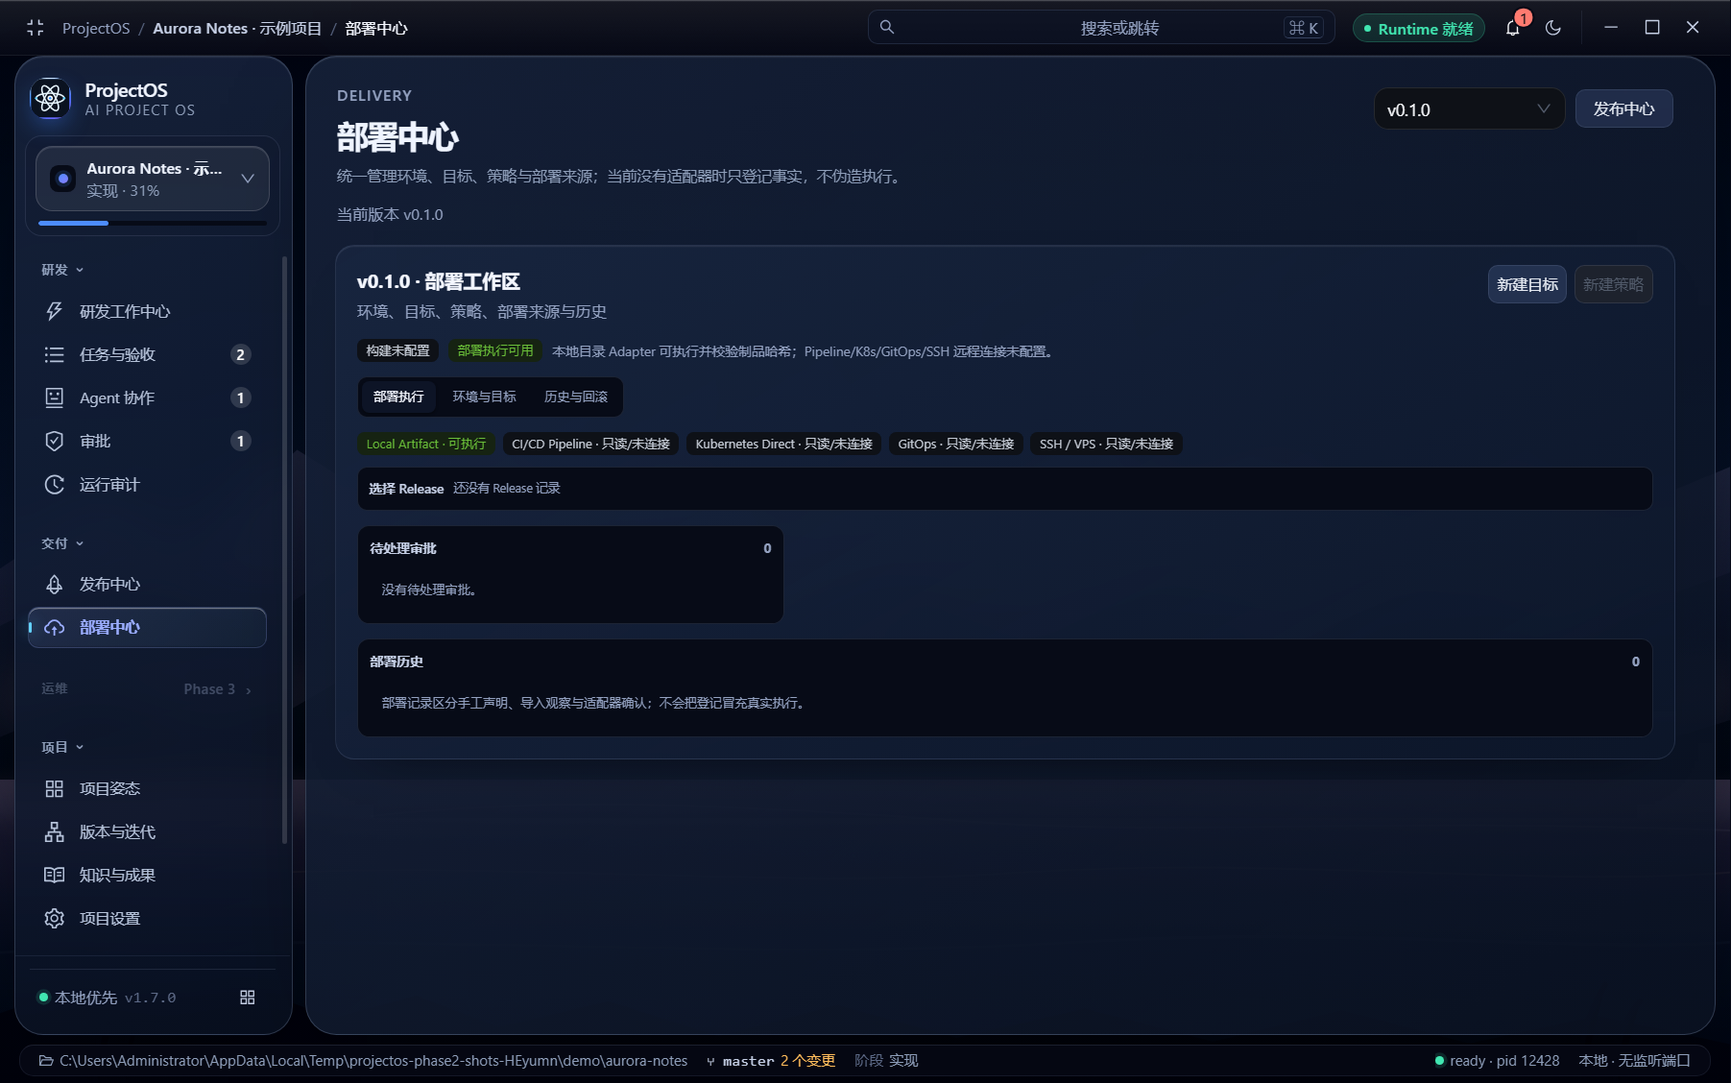
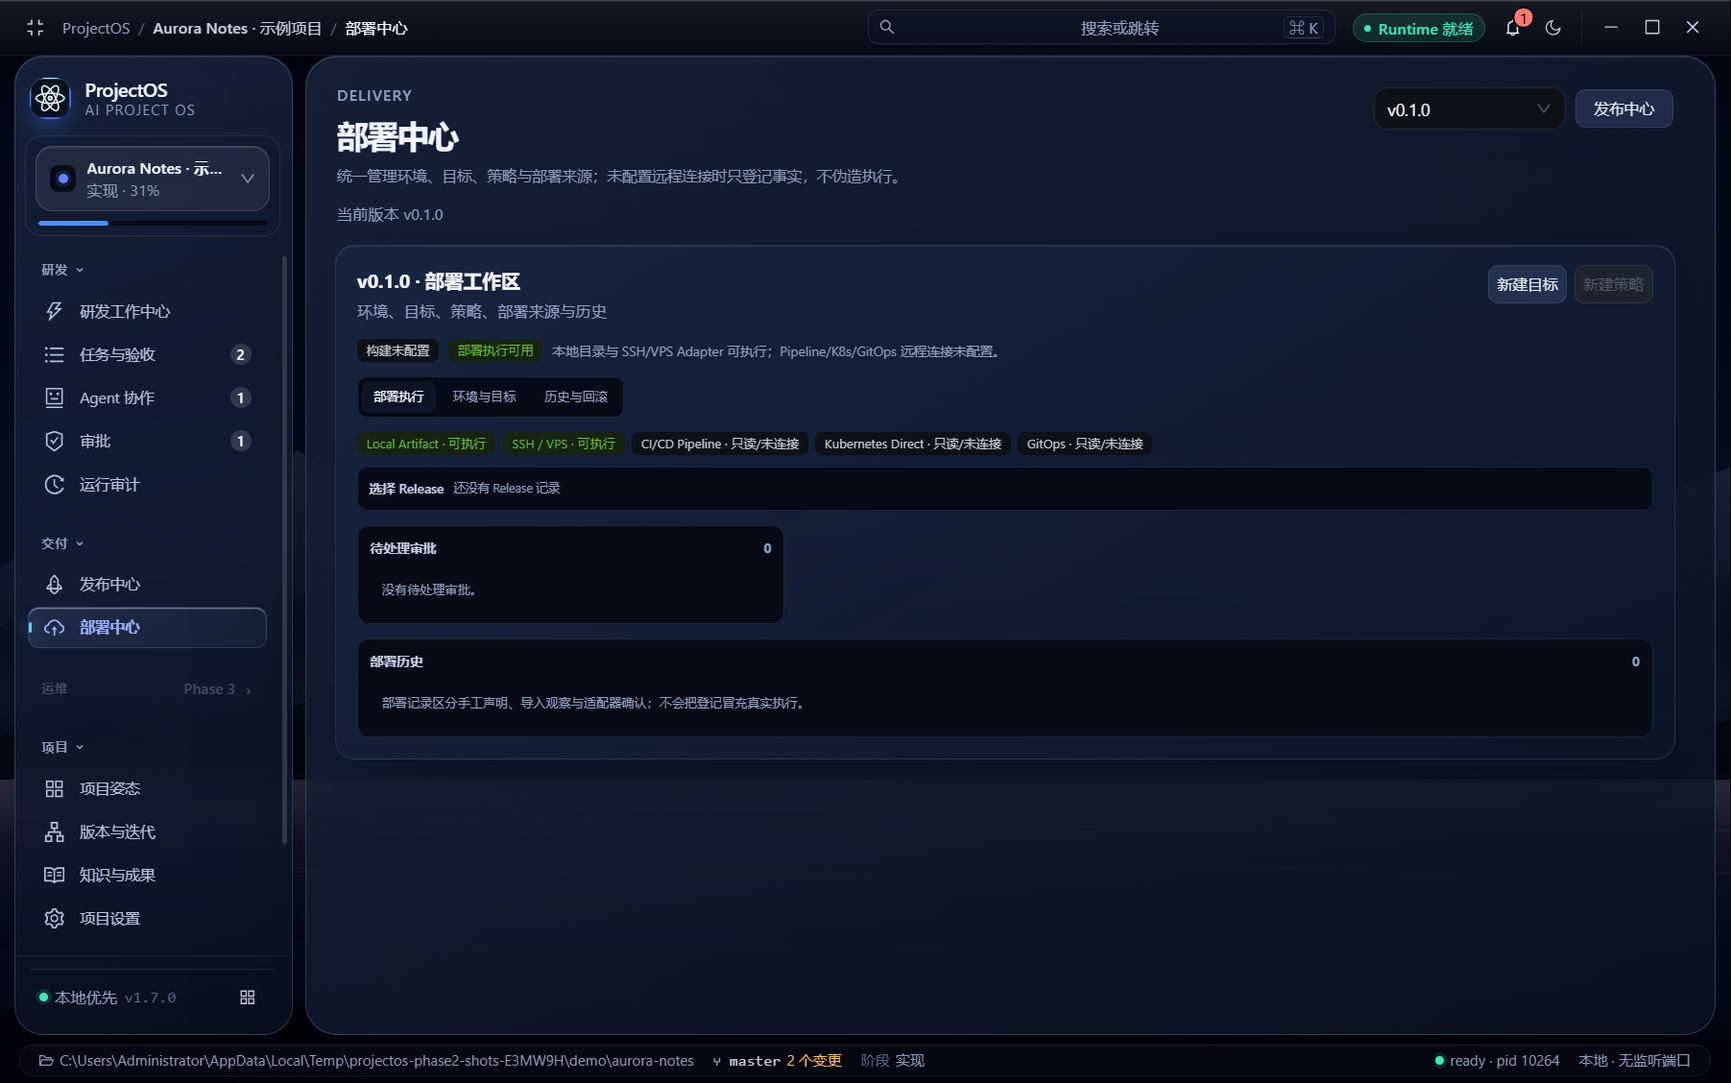
feat(phase2.2): add controlled SSH/VPS adapter and real delivery validation

diff --git a/apps/runtime/src/delivery-adapters.ts b/apps/runtime/src/delivery-adapters.ts
@@ -1,6 +1,8 @@
 import { createHash } from 'node:crypto'
+import { execFile } from 'node:child_process'
+import { promisify } from 'node:util'
 import { existsSync, mkdirSync, readFileSync, writeFileSync } from 'node:fs'
-import { join } from 'node:path'
+import { basename, join } from 'node:path'
 
 export interface DeliveryAdapterCapabilities {
   inspect: boolean
@@ -41,6 +43,8 @@ export interface DeliveryAdapter {
   inspect(targetPath: string): Promise<{ ok: boolean; detail: string }>
   execute(context: DeliveryExecutionContext): Promise<DeliveryExecutionResult>
 }
+
+const execFileAsync = promisify(execFile)
 
 function sha256File(path: string): string {
   return createHash('sha256').update(readFileSync(path)).digest('hex')
@@ -116,6 +120,140 @@ export class LocalArtifactAdapter implements DeliveryAdapter {
   }
 }
 
+/**
+ * Controlled SSH/VPS adapter for a single isolated static application. It uses
+ * a fixed deployment layout, Docker container and health endpoint. It never
+ * exposes a general-purpose shell: commands and paths are validated.
+ */
+export class SshArtifactAdapter implements DeliveryAdapter {
+  readonly type = 'ssh-artifact'
+  readonly label = 'SSH / VPS'
+  readonly capabilities: DeliveryAdapterCapabilities = {
+    inspect: true,
+    execute: true,
+    observe: true,
+    logs: false,
+    health: true,
+    rollback: false,
+    cancel: false,
+    reconcile: false,
+  }
+
+  private connection(ref: string) {
+    const url = new URL(ref)
+    if (url.protocol !== 'ssh:') throw new Error('SSH 目标必须是 ssh:// 地址')
+    const host = url.hostname
+    const user = decodeURIComponent(url.username || 'root')
+    const port = url.port || '22'
+    const remotePath = decodeURIComponent(url.pathname)
+    if (!/^\/opt\/projectos-[a-z0-9/_-]+$/.test(remotePath) || remotePath.includes('..')) {
+      throw new Error('远程目录必须位于 /opt/projectos-* 隔离目录')
+    }
+    const container = url.searchParams.get('container') || 'projectos-delivery-test'
+    if (!/^[a-z0-9][a-z0-9-]{2,62}$/.test(container)) throw new Error('容器名不合法')
+    const healthPort = Number(url.searchParams.get('healthPort') || '18080')
+    if (!Number.isInteger(healthPort) || healthPort < 1024 || healthPort > 65535) throw new Error('健康检查端口不合法')
+    const image = url.searchParams.get('image') || 'nginx:alpine'
+    if (!/^[a-z0-9][a-z0-9./:_-]*$/i.test(image)) throw new Error('镜像名不合法')
+    const keyPath = process.env.PROJECTOS_DEPLOY_SSH_KEY
+    if (!keyPath || !existsSync(keyPath)) throw new Error('未配置 SSH 部署密钥')
+    const knownHosts = process.env.PROJECTOS_DEPLOY_SSH_KNOWN_HOSTS || ''
+    return { host, user, port, remotePath, container, healthPort, image, keyPath, knownHosts }
+  }
+
+  private async sshArgs(conn: ReturnType<SshArtifactAdapter['connection']>, command: string[]): Promise<Buffer> {
+    const common = [
+      '-p', conn.port,
+      '-i', conn.keyPath,
+      '-o', 'BatchMode=yes',
+      '-o', 'IdentitiesOnly=yes',
+      '-o', 'StrictHostKeyChecking=yes',
+      ...(conn.knownHosts ? ['-o', `UserKnownHostsFile=${conn.knownHosts}`] : []),
+      `${conn.user}@${conn.host}`,
+      ...command,
+    ]
+    const { stdout } = await execFileAsync('ssh', common, { timeout: 180_000, maxBuffer: 2 * 1024 * 1024 })
+    return Buffer.from(stdout)
+  }
+
+  private async scpArgs(conn: ReturnType<SshArtifactAdapter['connection']>, source: string, destination: string): Promise<void> {
+    await execFileAsync(
+      'scp',
+      [
+        '-P', conn.port,
+        '-i', conn.keyPath,
+        '-o', 'BatchMode=yes',
+        '-o', 'StrictHostKeyChecking=yes',
+        ...(conn.knownHosts ? ['-o', `UserKnownHostsFile=${conn.knownHosts}`] : []),
+        source,
+        `${conn.user}@${conn.host}:${destination}`,
+      ],
+      { timeout: 180_000, maxBuffer: 2 * 1024 * 1024 },
+    )
+  }
+
+  async inspect(ref: string): Promise<{ ok: boolean; detail: string }> {
+    const conn = this.connection(ref)
+    const output = (await this.sshArgs(conn, ['test', '-d', conn.remotePath, '&&', 'echo', 'SSH_TARGET_OK'])).toString()
+    return { ok: output.includes('SSH_TARGET_OK'), detail: `SSH 目标可访问：${conn.host}:${conn.port}` }
+  }
+
+  async execute(context: DeliveryExecutionContext): Promise<DeliveryExecutionResult> {
+    if (!context.artifacts.length) throw new Error('没有可部署的冻结制品')
+    const conn = this.connection(context.targetPath)
+    const remoteRelease = `${conn.remotePath}/releases/${context.deploymentId}`
+    const healthArtifact = context.artifacts.find((artifact) => basename(artifact.name) === 'health')
+    if (!healthArtifact) throw new Error('SSH 部署需要名为 health 的健康文件')
+    await this.sshArgs(conn, ['mkdir', '-p', remoteRelease])
+    const hashes: Array<{ name: string; hash: string }> = []
+    for (const artifact of context.artifacts) {
+      if (!artifact.uri || !existsSync(artifact.uri)) throw new Error(`制品缺少真实文件：${artifact.name}`)
+      const safeName = basename(artifact.name).replace(/[^A-Za-z0-9._-]/g, '_')
+      const actual = sha256File(artifact.uri)
+      if (actual !== artifact.contentHash) throw new Error(`制品哈希不一致：${artifact.name}`)
+      await this.scpArgs(conn, artifact.uri, `${remoteRelease}/${safeName}`)
+      const remoteHash = (await this.sshArgs(conn, ['sha256sum', `${remoteRelease}/${safeName}`])).toString().split(/\s+/)[0]
+      if (remoteHash !== actual) throw new Error(`远程制品哈希不一致：${artifact.name}`)
+      hashes.push({ name: safeName, hash: actual })
+    }
+    try {
+      await this.sshArgs(conn, ['docker', 'rm', '-f', conn.container])
+    } catch {
+      // No previous isolated container is a valid first deployment.
+    }
+    await this.sshArgs(conn, [
+      'docker', 'run', '-d', '--name', conn.container,
+      '-p', `127.0.0.1:${conn.healthPort}:80`,
+      '-v', `${remoteRelease}:/usr/share/nginx/html:ro`,
+      '--restart', 'unless-stopped',
+      conn.image,
+    ])
+    const health = (await this.sshArgs(conn, ['curl', '-fsS', `http://127.0.0.1:${conn.healthPort}/health`])).toString()
+    const healthOk = health.includes('ok')
+    const manifestHash = createHash('sha256').update(JSON.stringify(hashes)).digest('hex')
+    const receipt = {
+      adapter: this.type,
+      host: `${conn.user}@${conn.host}:${conn.port}`,
+      remoteRelease,
+      container: conn.container,
+      image: conn.image,
+      healthPort: conn.healthPort,
+      manifestHash,
+      artifacts: hashes,
+      healthBody: health.slice(0, 500),
+      deployedAt: Date.now(),
+    }
+    return {
+      externalId: `ssh:${conn.container}:${context.deploymentId}`,
+      status: healthOk ? 'succeeded' : 'failed',
+      assurance: 'externally_confirmed',
+      artifactHash: manifestHash,
+      receipt,
+      health: { ok: healthOk, detail: healthOk ? 'SSH 目标 /health 返回 ok' : 'SSH 目标 /health 未返回预期内容' },
+    }
+  }
+}
+
 /** Capability-only adapters: they are intentionally not executable in Phase 2.2. */
 export class ReadOnlyRemoteAdapter implements DeliveryAdapter {
   readonly capabilities: DeliveryAdapterCapabilities = {
@@ -142,8 +280,8 @@ export class ReadOnlyRemoteAdapter implements DeliveryAdapter {
 
 export const DELIVERY_ADAPTERS: DeliveryAdapter[] = [
   new LocalArtifactAdapter(),
+  new SshArtifactAdapter(),
   new ReadOnlyRemoteAdapter('pipeline', 'CI/CD Pipeline'),
   new ReadOnlyRemoteAdapter('kubernetes', 'Kubernetes Direct'),
   new ReadOnlyRemoteAdapter('gitops', 'GitOps'),
-  new ReadOnlyRemoteAdapter('ssh', 'SSH / VPS'),
 ]

diff --git a/tests/ssh-adapter-e2e.test.ts b/tests/ssh-adapter-e2e.test.ts
@@ -1,0 +1,88 @@
+import { mkdtempSync, rmSync, writeFileSync } from 'node:fs'
+import { tmpdir } from 'node:os'
+import { join } from 'node:path'
+import { afterEach, describe, expect, it } from 'vitest'
+import { LifecycleService } from '../apps/runtime/src/lifecycle.js'
+import { ReleaseService } from '../apps/runtime/src/release-service.js'
+import { createGitProject, setup } from './helpers/r1-fixture.js'
+
+const enabled = process.env.PROJECTOS_SSH_E2E === '1'
+const cleanups: Array<() => void> = []
+afterEach(() => {
+  while (cleanups.length > 0) cleanups.pop()?.()
+})
+
+describe('Phase 2.2 SSH/VPS adapter (real external, opt-in)', () => {
+  const run = enabled ? it : it.skip
+  run('deploys an isolated static app to the approved VPS and verifies /health', async () => {
+    const harness = setup()
+    cleanups.push(harness.close)
+    const project = await createGitProject(harness.services, harness.dataDir, 'adapter-ssh')
+    const lifecycle = new LifecycleService(harness.store)
+    const release = new ReleaseService(harness.store)
+    const version = lifecycle.overview(project.id).versions[0]!
+    const environment = lifecycle.createEnvironment({ projectId: project.id, key: 'vps-test', name: 'VPS Test', kind: 'staging', protected: false })
+    lifecycle.recordEvidence({
+      projectId: project.id, subjectType: 'version', subjectId: version.id, evidenceType: 'review_record',
+      verificationStatus: 'passed', assurance: 'self_declared', title: 'review', summary: 'ok', provenance: {},
+    })
+    if (version.phase === 'planned') lifecycle.transitionVersion({ versionId: version.id, to: 'discovery' })
+    if (lifecycle.overview(project.id).versions[0]?.phase === 'discovery') lifecycle.transitionVersion({ versionId: version.id, to: 'build' })
+    if (lifecycle.overview(project.id).versions[0]?.phase === 'build') {
+      lifecycle.recordEvidence({
+        projectId: project.id, subjectType: 'version', subjectId: version.id, evidenceType: 'test_report',
+        verificationStatus: 'passed', assurance: 'source_observed', title: 'test', summary: 'ok', provenance: {},
+      })
+      lifecycle.transitionVersion({ versionId: version.id, to: 'verify' })
+    }
+
+    const sourceDir = mkdtempSync(join(tmpdir(), 'projectos-ssh-source-'))
+    cleanups.push(() => rmSync(sourceDir, { recursive: true, force: true }))
+    const indexFile = join(sourceDir, 'index.html')
+    const healthFile = join(sourceDir, 'health')
+    writeFileSync(indexFile, '<h1>ProjectOS SSH delivery</h1>')
+    writeFileSync(healthFile, 'ok')
+    const indexArtifact = await harness.services.projects.createArtifact({
+      projectId: project.id, taskId: null, runId: null, kind: 'other', title: 'index.html',
+      body: '', uri: indexFile, metadata: {},
+    })
+    const healthArtifact = await harness.services.projects.createArtifact({
+      projectId: project.id, taskId: null, runId: null, kind: 'other', title: 'health',
+      body: 'ok', uri: healthFile, metadata: {},
+    })
+    const request = release.createChangeRequest({
+      projectId: project.id, versionId: version.id, title: 'VPS delivery', description: 'isolated VPS test',
+      sourceType: 'manual', sourceId: null, riskLevel: 'low', impactScope: '',
+      targetEnvironmentId: environment.id, linkedArtifactIds: [indexArtifact.id, healthArtifact.id], linkedTaskIds: [],
+    })
+    const submitted = release.submitChangeRequest(request.id)
+    release.decideApproval({ approvalId: submitted.approval.id, decision: 'approved', note: 'ok', rationale: 'ok' })
+    const candidate = release.createCandidate({
+      projectId: project.id, versionId: version.id, changeRequestId: request.id,
+      artifactIds: [indexArtifact.id, healthArtifact.id], notes: '',
+    })
+    expect(candidate.status).toBe('ready')
+    const created = release.createRelease({ candidateId: candidate.id, idempotencyKey: 'ssh-release-1', notes: '' })
+    const target = release.createTarget({
+      projectId: project.id, environmentId: environment.id, name: 'Contabo isolated VPS',
+      kind: 'ssh', controlMode: 'ssh_managed', adapterType: 'ssh-artifact',
+      targetRef: 'ssh://root@169.58.112.111:22/opt/projectos-delivery-test?healthPort=18080&container=projectos-delivery-test&image=nginx:alpine',
+      protected: false,
+    })
+    const deployment = release.createDeployment({
+      projectId: project.id, releaseId: created.id, environmentId: environment.id, targetId: target.id,
+      strategyId: null, source: 'manual', idempotencyKey: 'ssh-deploy-1', status: 'succeeded',
+      externalId: null, artifactHash: null, receipt: {}, notes: '', rollbackOfDeploymentId: null,
+    })
+    const approval = harness.store.db
+      .prepare("SELECT id FROM approval_requests WHERE subject_type='deployment' AND subject_id=?")
+      .get(deployment.id) as { id: string }
+    release.decideApproval({ approvalId: approval.id, decision: 'approved', note: 'ok', rationale: 'ok' })
+    const executed = await release.executeDeployment(deployment.id)
+    expect(executed.status).toBe('succeeded')
+    expect(executed.assurance).toBe('externally_confirmed')
+    expect(String(executed.receipt.healthBody)).toContain('ok')
+    expect(executed.externalId).toMatch(/^ssh:projectos-delivery-test:/)
+    expect(release.currentEnvironmentVersion(project.id, environment.id).releaseId).toBe(created.id)
+  }, 180_000)
+})

diff --git a/apps/desktop/src/renderer/src/components/ReleasePanel.tsx b/apps/desktop/src/renderer/src/components/ReleasePanel.tsx
@@ -1,4 +1,4 @@
-import { useMemo, useState } from 'react'
+import { useEffect, useMemo, useRef, useState } from 'react'
 import { useMutation, useQuery, useQueryClient } from '@tanstack/react-query'
 import { App as AntApp, Button, Empty, Input, Modal, Select, Tag } from 'antd'
 import type { ReleaseOverview } from '@projectos/contracts'
@@ -92,6 +92,10 @@ export function ReleasePanel({ projectId, versionId, versionLabel, mode = 'all' 
   const [strategyAdapter, setStrategyAdapter] = useState('manual')
   const [releaseView, setReleaseView] = useState<'candidates' | 'changes' | 'releases'>('candidates')
   const [deployView, setDeployView] = useState<'execute' | 'targets' | 'history'>('execute')
+  const executePoller = useRef<ReturnType<typeof setInterval> | null>(null)
+  useEffect(() => () => {
+    if (executePoller.current) clearInterval(executePoller.current)
+  }, [])
   const data = overview.data
   const pendingApprovals = useMemo(
     () =>
@@ -225,11 +229,24 @@ export function ReleasePanel({ projectId, versionId, versionLabel, mode = 'all' 
   })
   const executeLocal = useMutation({
     mutationFn: (deploymentId: string) => window.projectos.release.executeDeployment(deploymentId),
-    onSuccess: async (result) => {
-      await invalidate()
-      message.success(`本地部署结果：${result.status === 'succeeded' ? '成功' : result.status}`)
+    onMutate: () => {
+      if (executePoller.current) clearInterval(executePoller.current)
+      executePoller.current = setInterval(() => {
+        void queryClient.refetchQueries({ queryKey: ['release-overview', projectId, versionId] })
+      }, 2500)
     },
-    onError: (error) => message.error(errorMessage(error)),
+    onSuccess: async (result) => {
+      if (executePoller.current) clearInterval(executePoller.current)
+      executePoller.current = null
+      await invalidate()
+      message.success(`部署结果：${result.status === 'succeeded' ? '成功' : result.status}`)
+    },
+    onError: (error) => {
+      if (executePoller.current) clearInterval(executePoller.current)
+      executePoller.current = null
+      void invalidate()
+      message.error(errorMessage(error))
+    },
   })
 
   const createTarget = useMutation({
@@ -240,7 +257,7 @@ export function ReleasePanel({ projectId, versionId, versionLabel, mode = 'all' 
         name: targetName.trim(),
         kind: targetKind,
         controlMode: targetControl,
-        adapterType: targetKind === 'local' ? 'local-artifact' : null,
+        adapterType: targetKind === 'local' ? 'local-artifact' : targetKind === 'ssh' ? 'ssh-artifact' : null,
         targetRef: targetRef.trim(),
         protected: false,
       }),
@@ -520,11 +537,11 @@ export function ReleasePanel({ projectId, versionId, versionLabel, mode = 'all' 
           {data.deployments.map((deployment) => {
             const environment = data.environments.find((item) => item.id === deployment.environmentId)
             const target = data.targets.find((item) => item.id === deployment.targetId)
-            const canExecuteLocal = deployment.status === 'pending' && target && (target.kind === 'local' || target.adapterType === 'local-artifact')
+            const canExecuteTarget = deployment.status === 'pending' && target && ['local-artifact', 'ssh-artifact'].includes(target.adapterType ?? '')
             return (
               <article className="rel-item" key={deployment.id}>
                 <div className="rel-item-head">
-                  <strong>{environment?.name ?? deployment.environmentId}</strong>
+                  <strong>{target?.name ?? environment?.name ?? deployment.environmentId}</strong>
                   <Tag color={deployment.status === 'succeeded' ? 'gold' : deployment.status === 'needs_reconciliation' ? 'red' : 'default'}>
                     {DEPLOYMENT_STATUS[deployment.status] ?? deployment.status}
                   </Tag>
@@ -536,9 +553,9 @@ export function ReleasePanel({ projectId, versionId, versionLabel, mode = 'all' 
                   <div className="rel-meta">未核实 · 仅用户声明，不计入环境当前版本</div>
                 ) : null}
                 {deployment.externalId ? <div className="rel-hash">外部 ID {deployment.externalId}</div> : null}
-                {canExecuteLocal ? (
+                {canExecuteTarget ? (
                   <Button size="small" type="primary" onClick={() => executeLocal.mutate(deployment.id)} loading={executeLocal.isPending}>
-                    执行本地部署
+                    执行部署
                   </Button>
                 ) : null}
                 {deployment.approvalId && ['pending', 'awaiting_approval'].includes(deployment.status) ? (

diff --git a/apps/runtime/src/release-service.ts b/apps/runtime/src/release-service.ts
@@ -104,7 +104,7 @@ export class ReleaseService {
         canBuild: false,
         canExecuteDeployment: true,
         canImportDeployment: true,
-        reason: '本地目录 Adapter 可执行并校验制品哈希；Pipeline/K8s/GitOps/SSH 远程连接未配置。',
+        reason: '本地目录与 SSH/VPS Adapter 可执行；Pipeline/K8s/GitOps 远程连接未配置。',
       },
     }
   }
@@ -633,15 +633,16 @@ export class ReleaseService {
     }
     if (!deployment.targetId) throw new AppError('CONFLICT', '部署缺少目标')
     const target = this.getTarget(deployment.targetId)
-    if (target.adapterType !== 'local-artifact' && target.kind !== 'local') {
-      throw new AppError('POLICY_DENIED', '目标未注册可执行本地 Adapter；不能伪造远程部署')
+    if (target.adapterType !== 'local-artifact' && target.kind !== 'local' && target.adapterType !== 'ssh-artifact') {
+      throw new AppError('POLICY_DENIED', '目标未注册可执行 Adapter；不能伪造远程部署')
     }
     const releaseArtifacts = this.releaseArtifacts(deployment.releaseId)
-    const adapter = DELIVERY_ADAPTERS.find((item) => item.type === 'local-artifact') as LocalArtifactAdapter | undefined
-    if (!adapter) throw new AppError('INTERNAL', '本地 Adapter 未注册')
+    const adapterType = target.adapterType === 'ssh-artifact' ? 'ssh-artifact' : 'local-artifact'
+    const adapter = DELIVERY_ADAPTERS.find((item) => item.type === adapterType) as LocalArtifactAdapter | undefined
+    if (!adapter) throw new AppError('INTERNAL', '部署 Adapter 未注册')
     const startedAt = now()
     this.store.db.prepare("UPDATE deployments SET status='running', started_at=?, updated_at=? WHERE id=?").run(startedAt, startedAt, deployment.id)
-    this.appendDeploymentEvent(deployment.id, 'adapter_started', 'running', 'LocalArtifactAdapter 开始执行', { adapter: adapter.type })
+    this.appendDeploymentEvent(deployment.id, 'adapter_started', 'running', `${adapterType} 开始执行`, { adapter: adapter.type })
     try {
       const result = await adapter.execute({
         deploymentId: deployment.id,

diff --git a/tests/delivery-adapter.test.ts b/tests/delivery-adapter.test.ts
@@ -122,7 +122,8 @@ describe('Phase 2.2 local delivery adapter', () => {
     expect(executed.receipt.artifacts).toEqual([{ name: 'index.html', hash: expectedHash }])
     expect(release.currentEnvironmentVersion(project.id, environment.id).releaseId).toBe(created.id)
     expect(release.adapterCapabilities().find((adapter) => adapter.type === 'local-artifact')?.capabilities.execute).toBe(true)
-    expect(release.adapterCapabilities().find((adapter) => adapter.type === 'ssh')?.capabilities.execute).toBe(false)
+    expect(release.adapterCapabilities().find((adapter) => adapter.type === 'ssh-artifact')?.capabilities.execute).toBe(true)
+    expect(release.adapterCapabilities().find((adapter) => adapter.type === 'pipeline')?.capabilities.execute).toBe(false)
     await expect(release.executeDeployment(deployment.id)).rejects.toThrow(/只有已批准/)
 
     writeFileSync(sourceFile, '<h1>tampered</h1>')

diff --git a/apps/desktop/src/renderer/src/pages/DeploymentCenterPage.tsx b/apps/desktop/src/renderer/src/pages/DeploymentCenterPage.tsx
@@ -26,7 +26,7 @@ export default function DeploymentCenterPage() {
       <PageHeader
         eyebrow="DELIVERY"
         title="部署中心"
-        description="统一管理环境、目标、策略与部署来源；当前没有适配器时只登记事实，不伪造执行。"
+        description="统一管理环境、目标、策略与部署来源；未配置远程连接时只登记事实，不伪造执行。"
         actions={
           <div className="delivery-head-actions">
             <Select

diff --git a/docs/ProjectOS_V2.0_Phase2.md b/docs/ProjectOS_V2.0_Phase2.md
@@ -574,6 +574,6 @@ SSH 私钥/密码、kubeconfig Token、ServiceAccount Token、CI/CD Access Token
 
 ### 15.2 真实远程状态
 
-本机仓库无 Helm/Kustomize/Argo/Flux/Tekton/Jenkins 部署配置，未获得 K8s/CI/VPS 连接凭据与写授权。真实远程部署为 **BLOCKED**，需用户提供只读连接后继续。
+已获得 Contabo 隔离测试 VPS 授权并完成真实 SSH Adapter 部署：/opt/projectos-delivery-test、projectos-delivery-test 容器、仅绑定 127.0.0.1:18080、/health 返回 ok、xternally_confirmed。K8s/GitOps/Pipeline 仍未连接，保持 BLOCKED。
 
 Phase 3 仍不启动。
